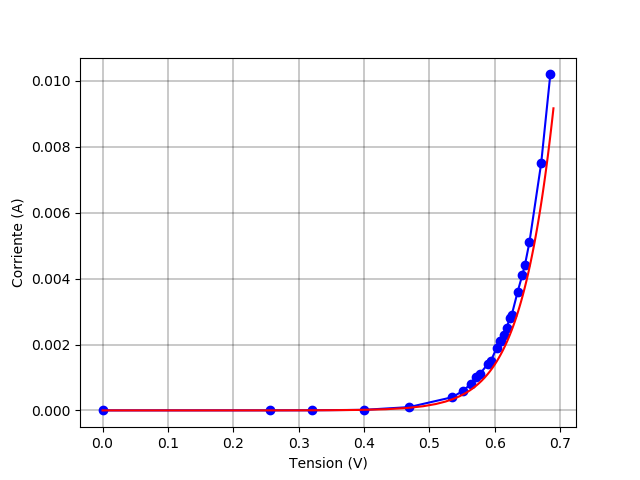
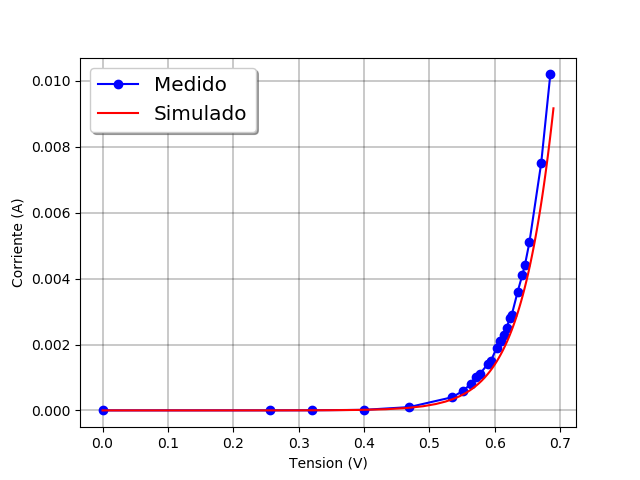
Grafiquitos

Changed region(s): [[0.125, 0.125, 0.4062, 0.2812]]

diff --git a/Graficos Buenos/GraphHand.py b/Graficos Buenos/GraphHand.py
@@ -80,19 +80,20 @@ from scipy.interpolate import spline
 
 #data = read_csv_bode("mlr.csv")
 #rectificador
-#rectV =np.asarray([0,0.256,0.320,0.4,0.469,0.535,0.552,0.563,0.571,0.577,0.589,0.594,0.603,0.608,0.610,0.614,0.618,0.623,0.626,0.635,0.642,0.646,0.653,0.671,0.685])
-#rectI =np.asarray([0,0.001,0.003,0.017,0.1,0.4,0.6,0.8,1,1.1,1.4,1.5,1.9,2.1,2.1,2.3,2.5,2.8,2.9,3.6,4.1,4.4,5.1,7.5,10.2]) * 1/1000
-#plt.plot(rectV, rectI,'-bo')
+rectV =np.asarray([0,0.256,0.320,0.4,0.469,0.535,0.552,0.563,0.571,0.577,0.589,0.594,0.603,0.608,0.610,0.614,0.618,0.623,0.626,0.635,0.642,0.646,0.653,0.671,0.685])
+rectI =np.asarray([0,0.001,0.003,0.017,0.1,0.4,0.6,0.8,1,1.1,1.4,1.5,1.9,2.1,2.1,2.3,2.5,2.8,2.9,3.6,4.1,4.4,5.1,7.5,10.2]) * 1/1000
+plt.plot(rectV, rectI,'-bo',label = 'Medido')
 #zener
-zenerV = np.asarray([-11.79,-11.71,-11.68,-11.62,-11.56,-11.53,-11.48,-11.3,-10.22,-9.36,0,0.52,0.64,0.67,0.69,0.72,0.74,0.76,0.77])
-zenerI = np.asarray([-7,-4.7,-3.8,-2.6,-1.1,-0.651,-0.216,-0.001,-0.001,0,0.001,0.001,0.056,0.168,0.274,0.792,1.636,4.1,5.1]) *1/1000
-plt.plot(zenerV,zenerI,'-bo')
+#zenerV = np.asarray([-11.79,-11.71,-11.68,-11.62,-11.56,-11.53,-11.48,-11.3,-10.22,-9.36,0,0.52,0.64,0.67,0.69,0.72,0.74,0.76,0.77])
+#zenerI = np.asarray([-7,-4.7,-3.8,-2.6,-1.1,-0.651,-0.216,-0.001,-0.001,0,0.001,0.001,0.056,0.168,0.274,0.792,1.636,4.1,5.1]) *1/1000
+#plt.plot(zenerV,zenerI,'-bo',label = 'Medido')
 
-data = read_file_spice("prueba2.txt")
+data = read_file_spice("1N4148_char.txt")
 tensionDiodo = np.asarray(data["Vd"])
 corrienteDiodo = np.asarray(data["Id"])
-plt.plot(tensionDiodo,corrienteDiodo,'r')
+plt.plot(tensionDiodo,corrienteDiodo,'r',label= 'Simulado')
 #plt.plot(tensionLedSmooth.ewm(com=20).mean(),corrienteResSmooth.ewm(com=20).mean())
+legend = plt.legend(loc='upper left', shadow=True, fontsize='x-large')
 plt.ylabel("Corriente (A)")
 plt.xlabel("Tension (V)")
 plt.grid(which='major', linestyle='-', linewidth=0.3, color='black')

diff --git a/Graficos Buenos/Graphs.py b/Graficos Buenos/Graphs.py
@@ -91,13 +91,15 @@ corrienteResSmooth = pd.DataFrame(corrienteRes)
 data = read_file_spice("Led Rojo.txt")
 tensionDiodo = np.asarray(data["Vd"])
 corrienteDiodo = np.asarray(data["Id"])
-plt.plot(tensionDiodo,corrienteDiodo)
-plt.plot(tensionLedSmooth.ewm(com=20).mean(),corrienteResSmooth.ewm(com=20).mean())
+plt.plot(tensionDiodo,corrienteDiodo,'r',label = 'Simulado' )
+plt.plot(tensionLedSmooth.ewm(com=20).mean(),corrienteResSmooth.ewm(com=20).mean(),'b',label = 'Medido')
 plt.ylabel("Corriente (A)")
 plt.xlabel("Tension (V)")
+legend = plt.legend(loc='upper left', shadow=True, fontsize='x-large')
 plt.grid(which='major', linestyle='-', linewidth=0.3, color='black')
 plt.grid(which='minor', linestyle=':', linewidth=0.1, color='black')
 plt.show()
+
 
 
 
